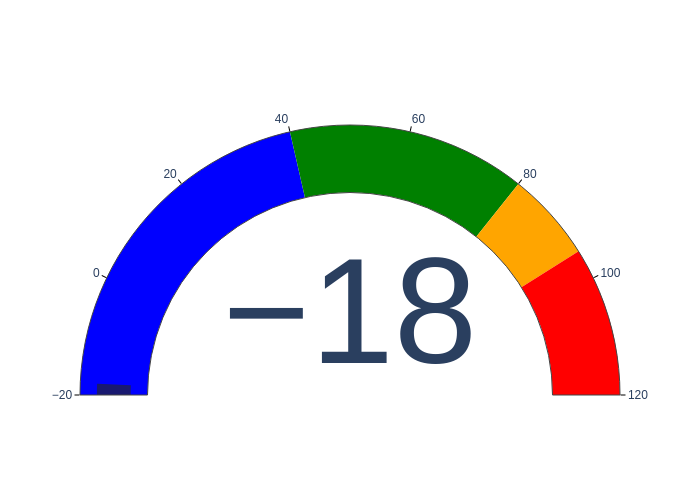
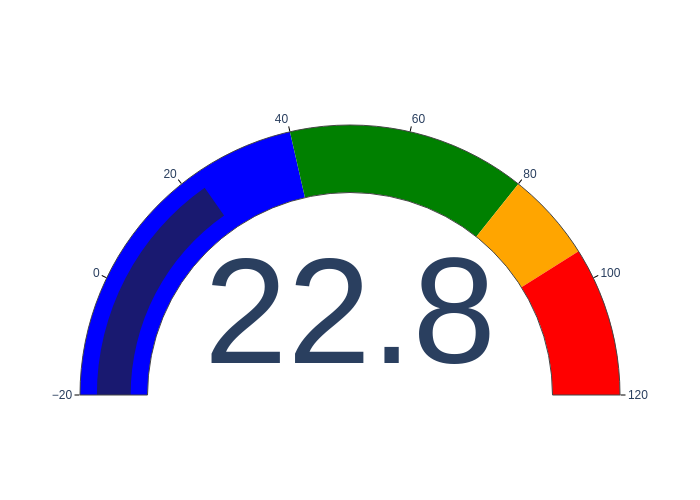
working except mcp, still flickers, gps and temperature might not be fully working

Changed region(s): [[0.3, 0.51, 0.72, 0.75], [0.12, 0.36, 0.33, 0.78]]

diff --git a/main/gui/sensorWindow.py b/main/gui/sensorWindow.py
@@ -13,9 +13,9 @@ class sensorWindow(ttk.Frame):
         #self.__setEngineTemp()
         #self.__setCoolantLevel()
         #self.__setFuelLevel()
-        self.__setWaterLevel()
-        self.__setGreyWaterLevel()
-        self.__setBlackWaterLevel()
+        self.__setWaterLevel("fluid50.png")
+        self.__setGreyWaterLevel("fluid50GT.png")
+        self.__setBlackWaterLevel("fluid50GT.png")
         self.setOutdoorTemperature()
         self.setBatteryLevel()
         self.setIndoorTemperature()
@@ -35,6 +35,37 @@ class sensorWindow(ttk.Frame):
     def set_controller(self,controller):
         self.controller = controller
 
+    def setLevels(self, levels):
+        self.__waterSwitch(levels[0])
+        self.__greyWaterSwitch(levels[1])
+        self.__blackWaterSwitch(levels[2])
+
+    def __waterSwitch(self, level):
+        if level == 0:
+            self.__setWaterLevel("coolantLow.png")
+        elif level == 1:
+            self.__setWaterLevel("fluid50.png")
+        elif level == 2:
+            self.__setWaterLevel("fluid50.png")
+        elif level == 3:
+            self.__setWaterLevel("coolantHigh.png")
+
+    def __greyWaterSwitch(self, level):
+        if level == 0:
+            self.__setGreyWaterLevel("coolantLow.png")
+        elif level == 1:
+            self.__setGreyWaterLevel("fluid50GT.png")
+        elif level == 2:
+            self.__setGreyWaterLevel("coolantHigh.png")
+
+    def __blackWaterSwitch(self, level):
+        if level == 0:
+            self.__setBlackWaterLevel("coolantLow.png")
+        elif level == 1:
+            self.__setBlackWaterLevel("fluid50GT.png")
+        elif level == 2:
+            self.__setBlackWaterLevel("coolantHigh.png")
+
     def setBatteryLevel(self):
         self.__addText("Battery voltage" + " - V", 2, 0, 2)
 
@@ -44,51 +75,32 @@ class sensorWindow(ttk.Frame):
     def setIndoorTemperature(self):
         self.__addText("Indoor Temp: " + "- C\N{DEGREE SIGN}", 4, 0, 1)
 
-    def __setBlackWaterLevel(self):
+    def __setBlackWaterLevel(self, image):
         global blackWaterImg
-        blackWaterImg = ImageTk.PhotoImage(Image.open("fluid50GT.png"))
+        blackWaterImg = ImageTk.PhotoImage(Image.open(image))
         canvas = tk.Canvas(self, bg="#1E2130", width=190, height=150,highlightthickness=0)
         canvas.grid(row=2, column=3)
         #canvas.pack()
         canvas.create_image(100,150, anchor="s",image=blackWaterImg)
-        self.__addTitleToImage("Greywater level", 1, 3)
+        self.__addTitleToImage("Blackwater level", 1, 3)
 
 
-    def __setGreyWaterLevel(self):
+    def __setGreyWaterLevel(self, image):
         global greeyWaterImg
-        greeyWaterImg = ImageTk.PhotoImage(Image.open("fluid50GT.png"))
+        greeyWaterImg = ImageTk.PhotoImage(Image.open(image))
         canvas = tk.Canvas(self, bg="#1E2130", width=190, height=150,highlightthickness=0)
         canvas.grid(row=4, column=3)
         #canvas.pack()
         canvas.create_image(100,150, anchor="s",image=greeyWaterImg)
         self.__addTitleToImage("Greywater level", 3, 3)
 
-    def __setWaterLevel(self):
+    def __setWaterLevel(self, image):
         canvas = tk.Canvas(self, bg="#1E2130", width=190, height=150,highlightthickness=0)
         canvas.grid(row=4, column=2)
         global img 
-        img = ImageTk.PhotoImage(Image.open("fluid50T.png"))
+        img = ImageTk.PhotoImage(Image.open(image))
         temp = canvas.create_image(100,150, anchor="s",image=img)
         self.__addTitleToImage("Water level", 3, 2)
-
-    def __setFuelLevel(self):
-        global fuelImg
-        fuelImg = ImageTk.PhotoImage(Image.open("fluid50DT.png"))
-        global fuelCanvas
-        fuelCanvas = tk.Canvas(self, bg="#1E2130", width=190, height=150,highlightthickness=0)
-        fuelCanvas.grid(row=4, column=1)
-        #canvas.pack()
-        fuelCanvas.create_image(100,150, anchor="s",image=fuelImg)
-        self.__addTitleToImage("Fuel level", 3, 1)
-
-    def __setCoolantLevel(self):
-        global CoolantImg
-        CoolantImg = ImageTk.PhotoImage(Image.open("fluid50T.png"))
-        canvas = tk.Canvas(self, bg="#1E2130", width=190, height=150,highlightthickness=0)
-        canvas.grid(row=4, column=0)
-        #canvas.pack()
-        canvas.create_image(100,150, anchor="s",image=CoolantImg)
-        self.__addTitleToImage("Coolant level", 3, 0)
 
     def __addTitleToImage(self,text,row,col):
         label = tk.Label(self,text=text,bg="#1E2130",fg='white',font=("Open sans", 15))
@@ -97,16 +109,6 @@ class sensorWindow(ttk.Frame):
     def __addText(self,text,row,col,span):
         label = tk.Label(self,text=text,bg="#1E2130",fg='white',font=("Open sans", 15))
         label.grid(row=row,column=col,rowspan=span)
-
-
-    def __setEngineTemp(self):
-        global tempImg
-        tempImg = Image.open("gauge.png")
-        tempImg = ImageTk.PhotoImage(tempImg)
-        canvas = tk.Canvas(self, bg="#1E2130", width=210, height=100,highlightthickness=0)
-        canvas.grid(row=1, column=0)
-        canvas.create_image(100,115, anchor="s",image=tempImg)
-        self.__addTitleToImage("Engine temperature", 0, 0)
 
     def __createFigure(self):
         lay = go.Layout(

diff --git a/main/model/modules/waterLevel.py b/main/model/modules/waterLevel.py
@@ -1,0 +1,41 @@
+import RPi.GPIO as GPIO
+
+class fluidLevel:
+
+    def __init__(self):
+        self.slidingWindowWaterTank = []
+        self.slidingWindowBrownTank = []
+        self.slidingWindowBlackTank = []
+        self.waterHigh = 21
+        self.waterMedium = 20
+        self.waterLow = 19
+        self.blackWaterHigh = 27
+        self.blackWaterLow = 26
+        self.brownWaterHigh = 6
+        self.brownWaterLow = 5
+        GPIO.setmode(GPIO.BCM)
+        GPIO.setup(21,GPIO.IN, pull_up_down=GPIO.PUD_DOWN)
+        GPIO.setup(20,GPIO.IN, pull_up_down=GPIO.PUD_DOWN)
+        GPIO.setup(19,GPIO.IN, pull_up_down=GPIO.PUD_DOWN)
+        GPIO.setup(27,GPIO.IN, pull_up_down=GPIO.PUD_DOWN)
+        GPIO.setup(26,GPIO.IN, pull_up_down=GPIO.PUD_DOWN)
+        GPIO.setup(6,GPIO.IN, pull_up_down=GPIO.PUD_DOWN)
+        GPIO.setup(5,GPIO.IN, pull_up_down=GPIO.PUD_DOWN)
+    #Returns 0-3 for watertank and 0-2 for grey and blackwater
+    def getLevel(self):
+        waterTank = 0
+        greyWaterTank = 0
+        blackWaterTank = 0
+        self.slidingWindowWaterTank.insert(0, GPIO.input(self.waterHigh) +  GPIO.input(self.waterMedium) +  GPIO.input(self.waterLow))
+        if len(self.slidingWindowWaterTank) > 10:
+           self.slidingWindowWaterTank.pop()
+           watertank = sum(self.slidingWindowWaterTank)//10
+        self.slidingWindowBrownTank.insert(0, GPIO.input(self.brownWaterHigh) + GPIO.input(self.brownWaterLow))
+        if len(self.slidingWindowBrownTank) > 10:
+           self.slidingWindowBrownTank.pop()
+           greyWaterTank = sum(self.slidingWindowBrownTank)//10
+        self.slidingWindowBlackTank.insert(0, GPIO.input(self.blackWaterHigh) + GPIO.input(self.blackWaterLow))
+        if len(self.slidingWindowBlackTank) > 10:
+           self.slidingWindowBlackTank.pop()
+           blackWaterTank = sum(self.slidingWindowBlackTank)//10
+        return (waterTank, greyWaterTank, blackWaterTank)

diff --git a/main/model/modules/engineTemp.py b/main/model/modules/engineTemp.py
@@ -8,7 +8,6 @@ class engineTemp:
 
     def __init__(self):
         cs = digitalio.DigitalInOut(board.D7)
-        #cs.direction = digitalio.Direction.OUTPUT
         spi = board.SPI()
         global max31855
         max31855 = adafruit_max31855.MAX31855(spi, cs)
@@ -17,9 +16,9 @@ class engineTemp:
         try:
          tempC = max31855.temperature 
         except:
-            print("Thermocouple sensor error")
+            print("Thermocouple sensor error: Failed to read temp from sensor")
             return -99
-        tempC = int(((tempC-17)*100)/91)
-        print("Temperature: {} C ".format(tempC))
+        #tempC = int(((tempC-17)*100)/91)
+        #print("Temperature: {} C ".format(tempC))
         return tempC
 

diff --git a/main/model/modules/temperatureSensors.py b/main/model/modules/temperatureSensors.py
@@ -16,8 +16,8 @@ class temperatureSensors:
         return
 
     def read_temp(self,temp):
-        #print(indoorTemp)
-        #print(outdoorTemp)
+        print(indoorTemp)
+        print(outdoorTemp)
         if temp == 'outdoor':
            lines = self.read_temp_raw(outdoorTemp)
            while lines[0].strip()[-3:] != 'YES':
@@ -35,8 +35,10 @@ class temperatureSensors:
             return temp_c
 
     def read_temp_raw(self,file):
-        f = open(file, 'r')
-        lines = f.readlines()
-        f.close()
-        return lines
-
+        try:
+           f = open(file, 'r')
+           lines = f.readlines()
+           f.close()
+           return lines
+        except IOError:
+           return [""]

diff --git a/main/model/modules/coolingLevel.py b/main/model/modules/coolingLevel.py
@@ -8,8 +8,7 @@ class coolingLevel:
         self.low = 23
         GPIO.setmode(GPIO.BCM)
         GPIO.setup(24,GPIO.IN, pull_up_down=GPIO.PUD_DOWN)
-        GPIO.setup(23,GPIO.IN, pull_up_down=GPIO.PUD_DOWN)
-        
+        GPIO.setup(23,GPIO.IN, pull_up_down=GPIO.PUD_DOWN) 
     #Returns -1 if level is to low, 0 if above lowest or 1 if full
     def getLevel(self):
         lowState = GPIO.input(self.low)

diff --git a/main/model/modules/gps.py b/main/model/modules/gps.py
@@ -20,7 +20,8 @@ class gps:
                 speed=str(newmsg.spd_over_grnd)
                 speed = int((float(speed)*1.85))
                 return speed
+            print("GPS error: decoding gps line is not GPRMC",)
             return -98
         except Exception as error:
-            print("An error occurred:", error)
+            print("GPS error:", error)
             return -99

diff --git a/main/husbil.py b/main/husbil.py
@@ -97,6 +97,9 @@ class MotorHomeApplication(tk.Tk):
     def setSpeed(self,speed):
         self.engineSensorView.setSpeed(speed)
 
+    def setFluidLevels(self, levels):
+        self.sensorView.setLevels(levels)
+
 if __name__ == '__main__':
     app =  MotorHomeApplication()
     app.mainloop()
